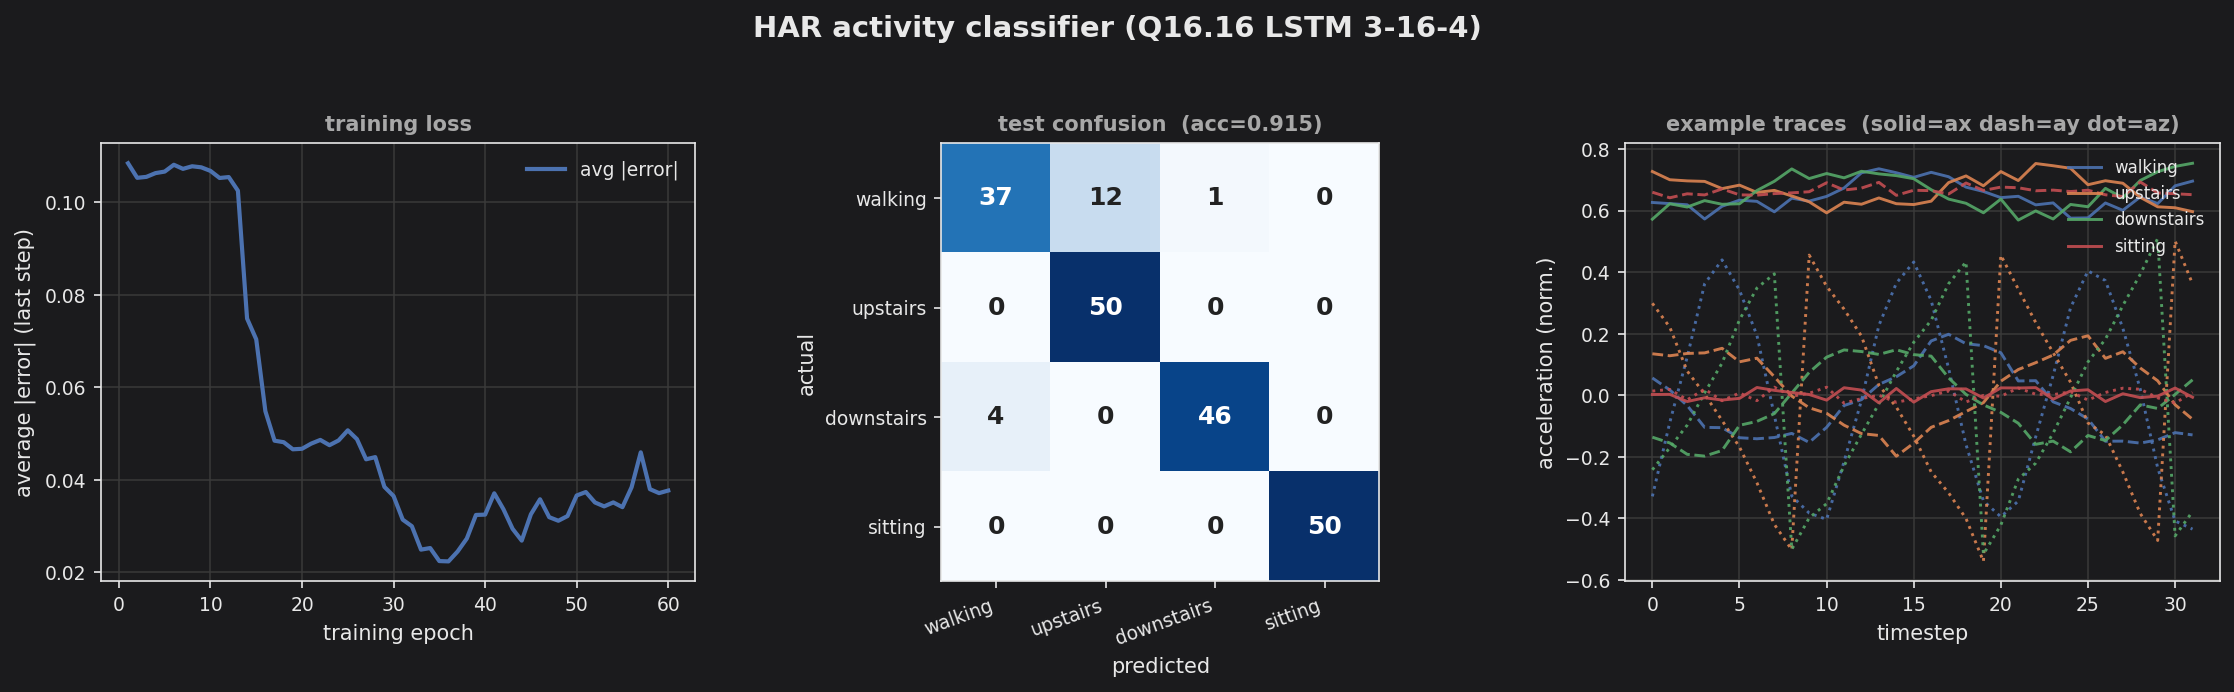
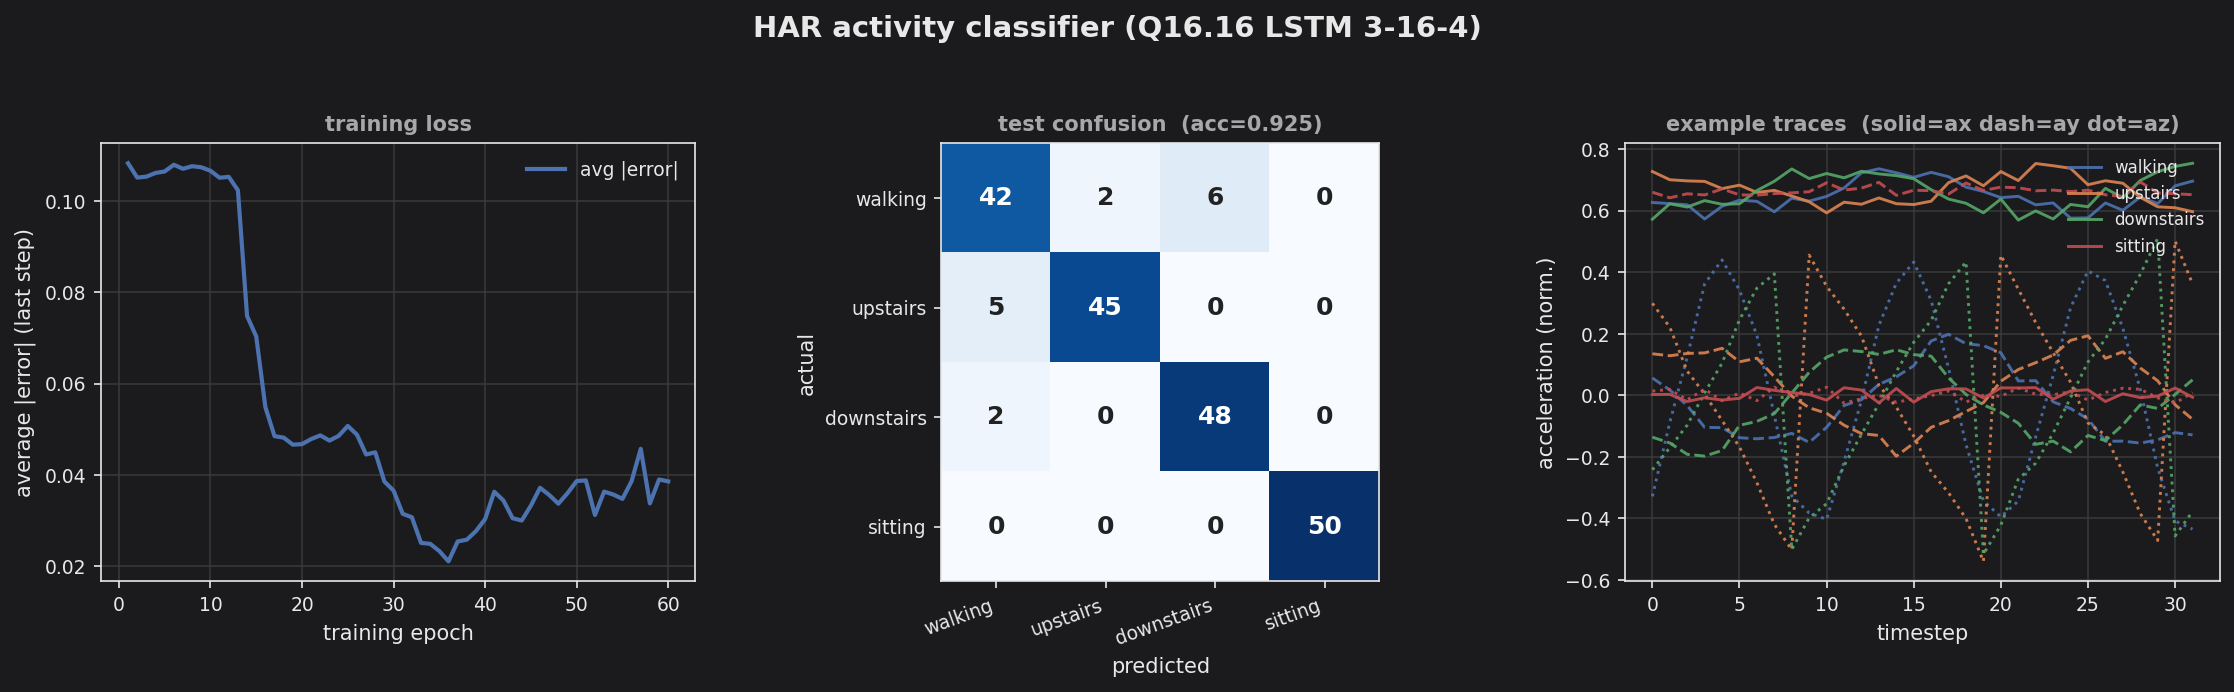
docs(har_activity): re-measure after bias-gradient clipping (91.5% -> 92.5%)
Clipping the bias gradients like the weight gradients changes the
Q16.16 LSTM's training: seed 1 goes from 183/200 to 185/200, and the
five-seed spread from 65.5-93% to 71-94.5%. --readout-only stays at
50%. Plot re-rendered (dark theme).

Claude-Session: https://claude.ai/code/session_01RpTo2hfE2KRgLhRDnz98Po

diff --git a/docs/examples/har_activity.md b/docs/examples/har_activity.md
@@ -31,12 +31,12 @@ By default the example synthesizes the accelerometer windows (deterministic, see
 
 | Model | Test accuracy |
 |---|---|
-| LSTM, all weights trained | **91.5%** (183/200) |
+| LSTM, all weights trained | **92.5%** (185/200) |
 | LSTM, `--readout-only` (input, gate and recurrent weights frozen at their random initial values) | 50.0% |
 | Nearest centroid on per-axis mean + standard deviation (ignores sample order) | 52.5% |
 | Chance | 25% |
 
-The two order-blind baselines both separate SITTING and lose most of the walking classes. Training the LSTM's gates and recurrent weights is what reads the sample order: it lifts accuracy from 50% to 91.5%. Recurrent training in Q16.16 is noisy on this task, though: across five weight-initialization seeds the full model scored 65.5%, 73%, 86.5%, 91.5% and 93%, always well above both baselines.
+The two order-blind baselines both separate SITTING and lose most of the walking classes. Training the LSTM's gates and recurrent weights is what reads the sample order: it lifts accuracy from 50% to 92.5%. Recurrent training in Q16.16 is noisy on this task, though: across five weight-initialization seeds the full model scored 71%, 73.5%, 89.5%, 92.5% and 94.5%, always well above both baselines.
 
 ## Output
 

diff --git a/docs/uci_dataset_capability_report.md b/docs/uci_dataset_capability_report.md
@@ -69,7 +69,7 @@ offline in float and then sweeps fixed-point formats to find the smallest one
 - **Dataset:** [UCI HAR Using Smartphones](https://archive.ics.uci.edu/dataset/240) — tri-axial accelerometer · activity classes.
 - **Model:** Q16.16 **LSTM** 3→16 (tanh)→4 sigmoid, stateful per 32-step window, argmax at final step. Classes: WALKING / WALKING_UPSTAIRS / WALKING_DOWNSTAIRS / SITTING.
 - **Data:** optional real data (long-format `har.csv`); else synthesizes accelerometer windows in which upstairs and downstairs are time reversals of each other, so only sample order separates them.
-- **Result:** 91.5% test accuracy (183/200), against 50% with only the readout trained and 52.5% for a nearest centroid on per-axis mean + std. `LstmNeuralNetwork<>` for sequence classification.
+- **Result:** 92.5% test accuracy (185/200), against 50% with only the readout trained and 52.5% for a nearest centroid on per-axis mean + std. `LstmNeuralNetwork<>` for sequence classification.
 - [`examples/har_activity`](https://github.com/danmcleran/tinymind/tree/master/examples/har_activity) · [page]({{ site.baseurl }}/examples/har_activity)
 
 ### Japanese Vowels — recurrent (Elman), offline-float → fixed-point sweep

diff --git a/examples/har_activity/README.md b/examples/har_activity/README.md
@@ -100,7 +100,7 @@ make plot      # needs matplotlib; a venv/pyenv works if it is not already in yo
 
 | model | test accuracy |
 |---|---|
-| LSTM, all weights trained | **91.5%** (183/200) |
+| LSTM, all weights trained | **92.5%** (185/200) |
 | LSTM, `--readout-only` (input, gate and recurrent weights frozen at their random initial values) | 50.0% |
 | nearest centroid on per-axis mean + standard deviation (ignores sample order) | 52.5% |
 | chance | 25% |
@@ -109,7 +109,7 @@ make plot      # needs matplotlib; a venv/pyenv works if it is not already in yo
 `./output/har_activity --readout-only` for the ablation. Training the LSTM's
 gates and recurrent weights is what reads the sample order. Recurrent training
 in Q16.16 is noisy on this task: across five weight-initialization seeds the
-full model scored 65.5%, 73%, 86.5%, 91.5% and 93%, always well above both
+full model scored 71%, 73.5%, 89.5%, 92.5% and 94.5%, always well above both
 order-blind baselines.
 
 An earlier version of this example (four classes separable by gravity
